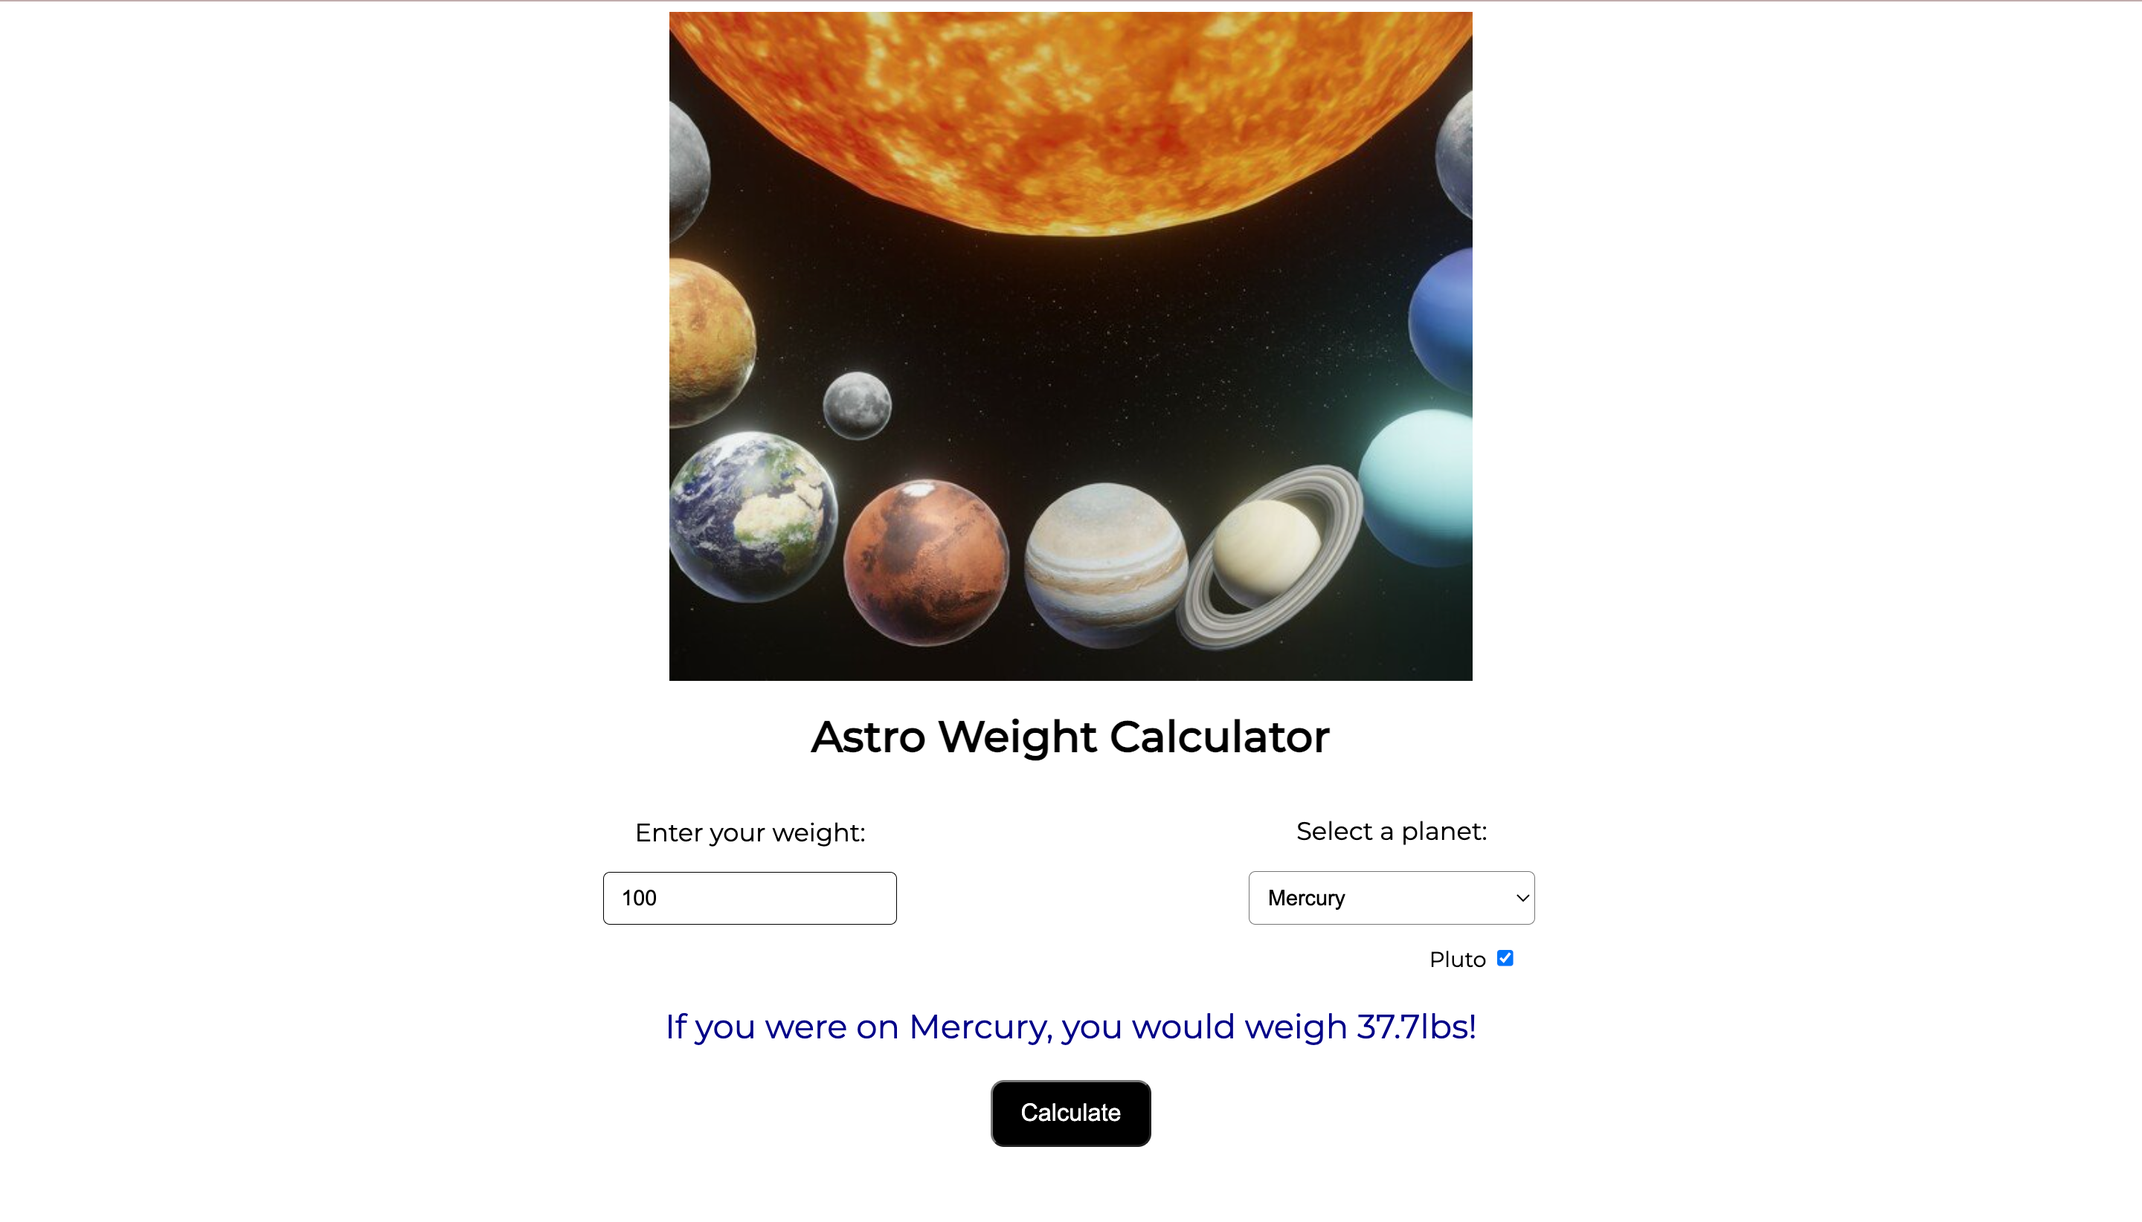
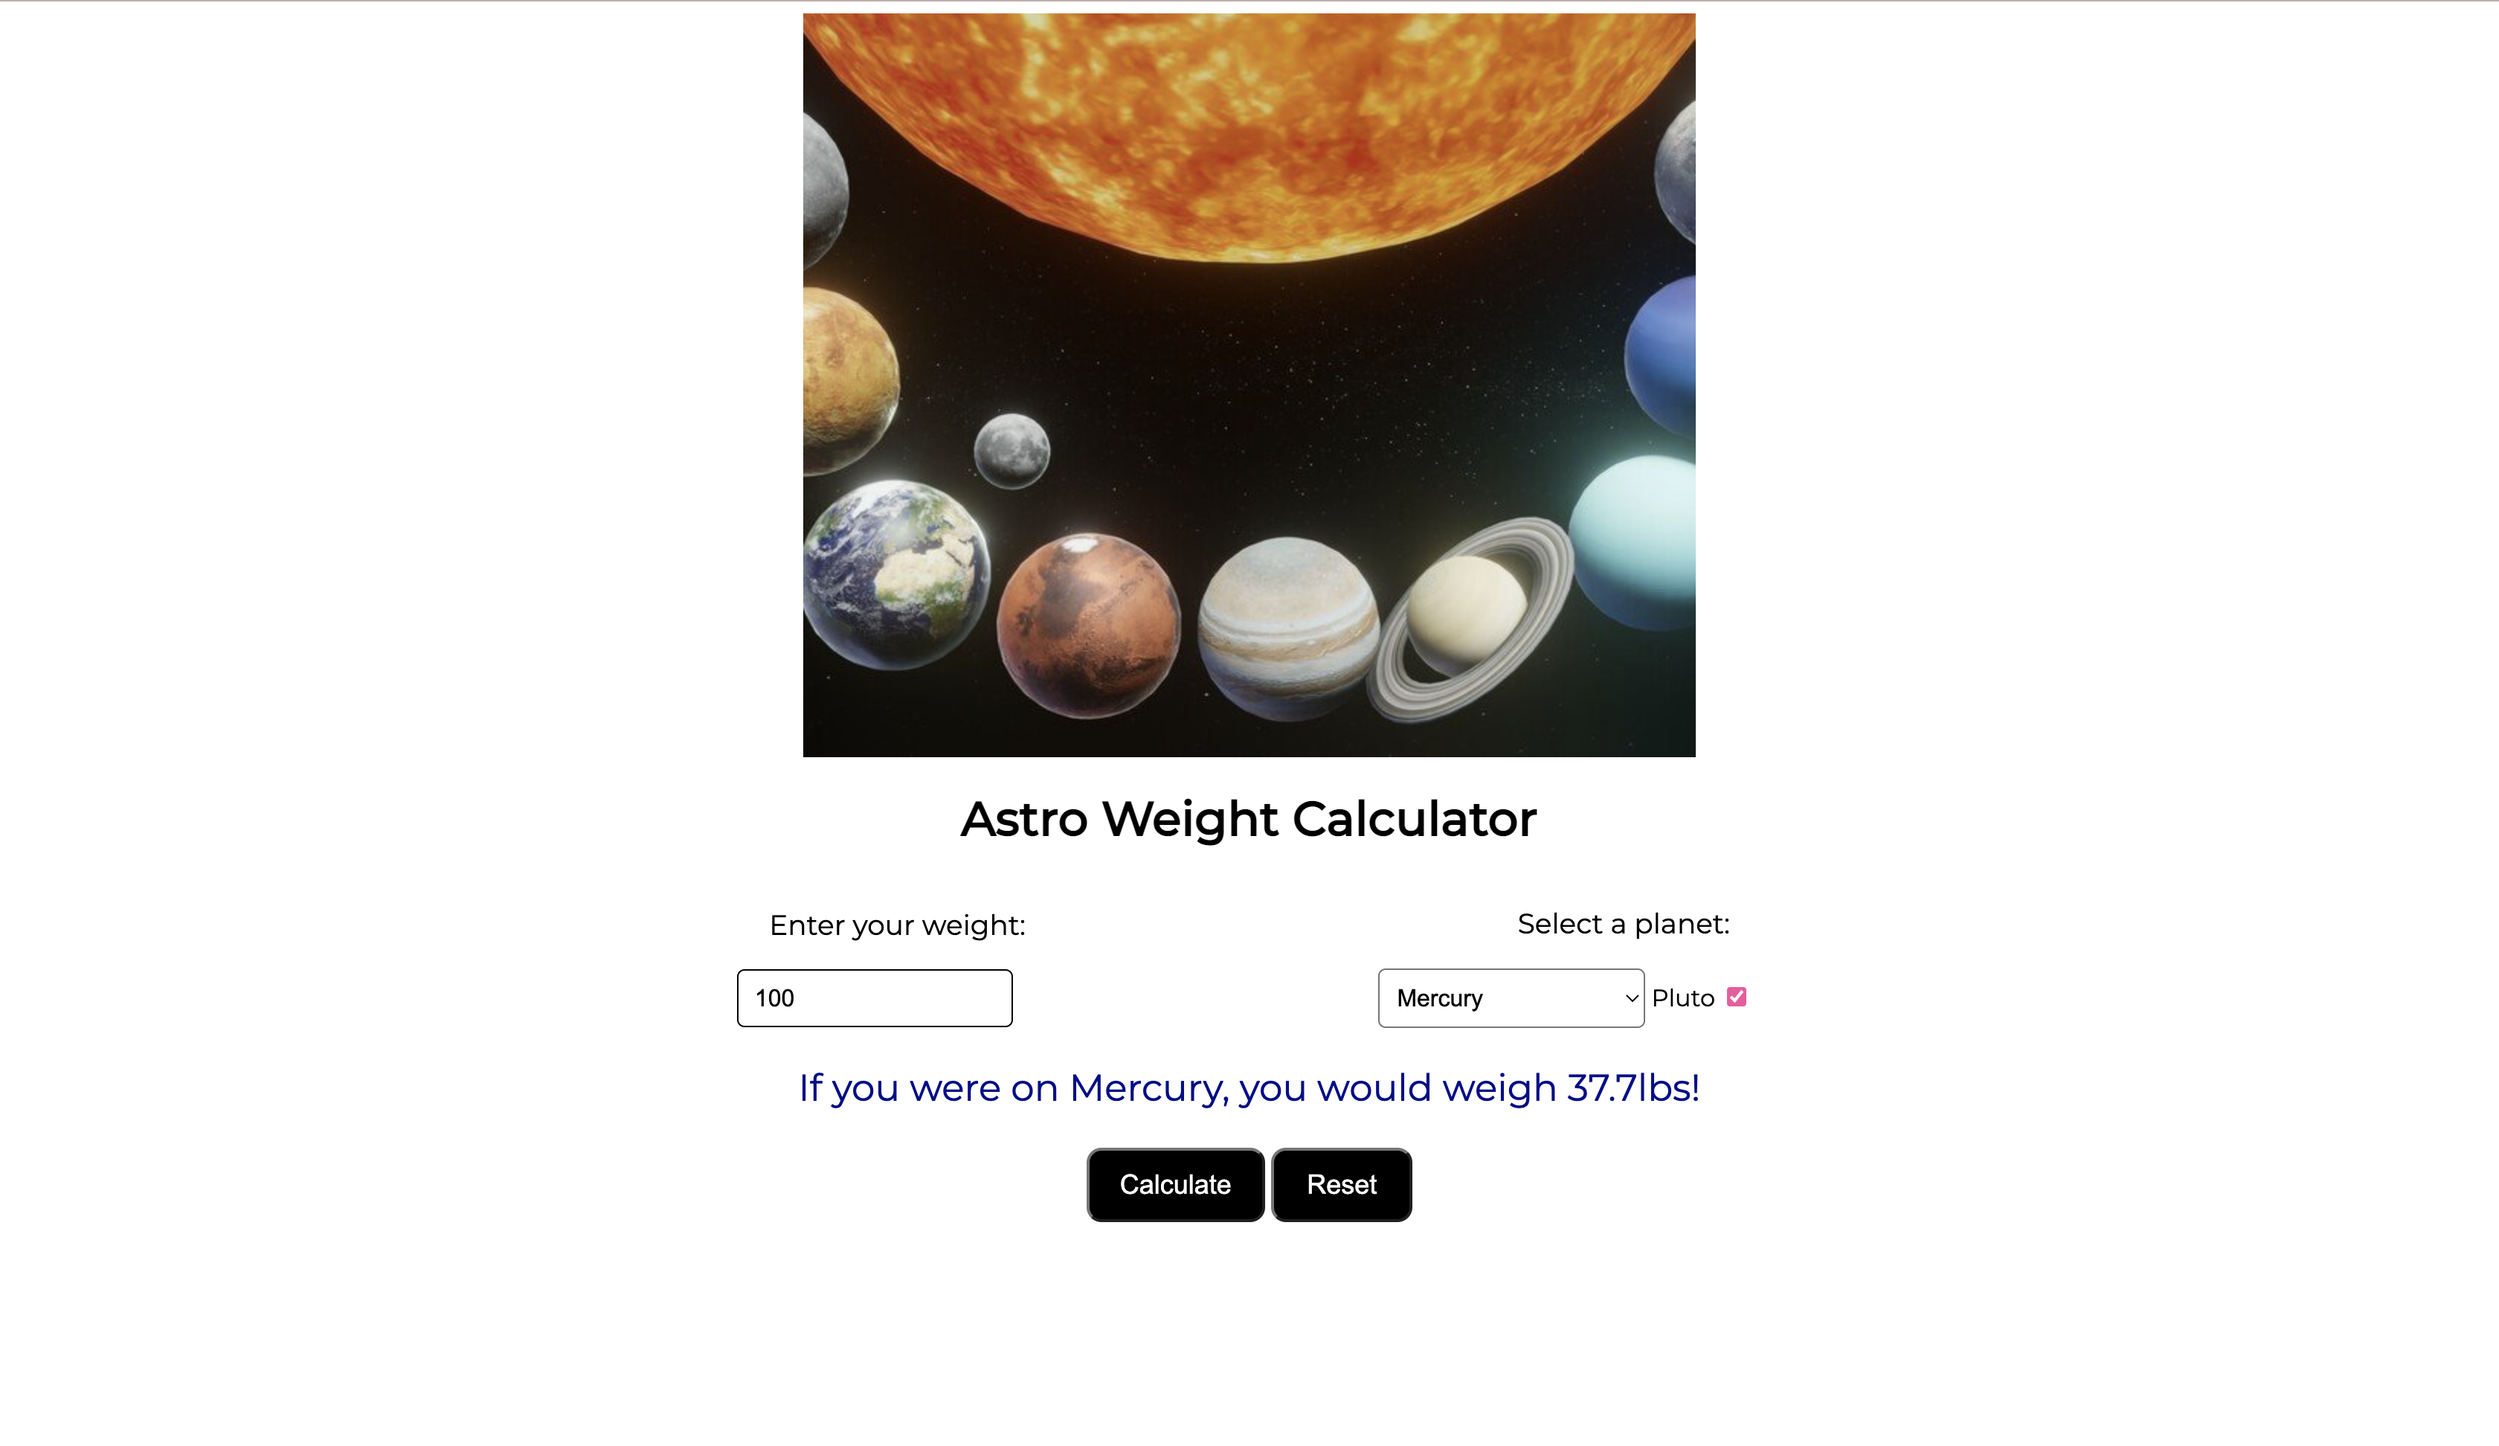
Update project photos in assets folder, style.css

Changed region(s): [[0.2812, 0.0, 0.7188, 0.9617], [0.6875, 0.7755, 0.7188, 0.8066], [0.6562, 0.8376, 0.6875, 0.8686]]

diff --git a/style.css b/style.css
@@ -1,6 +1,5 @@
 :root {
     --background-color: black;
-    --input-width: 45%;
     --font-color: white;
     --font-size: 16px;
 }
@@ -39,7 +38,7 @@ h3 {
     border: 1px solid var(--background-color);
     border-radius: 5px;
     height: 35px;
-    width: var(--input-width);
+    width: 36%;
     font-size: var(--font-size);
     text-indent: 5%;
 }
@@ -48,13 +47,13 @@ select {
     margin-left: -16%;
     border-radius: 5px;
     height: 40px;
-    width: var(--input-width);
+    width: 36%;
     background-color: var(--font-color);
     font-size: var(--font-size);
     text-indent: 5%;
 }
 
-#customize-planets {
+/* #customize-planets {
     margin-left: 4%;
     width: 90%;
 }
@@ -71,7 +70,7 @@ select {
     height: 18px;
     width: 14.5%;
     font-size: 9px;
-}
+} */
 
 .output {
     display: inline-block;
